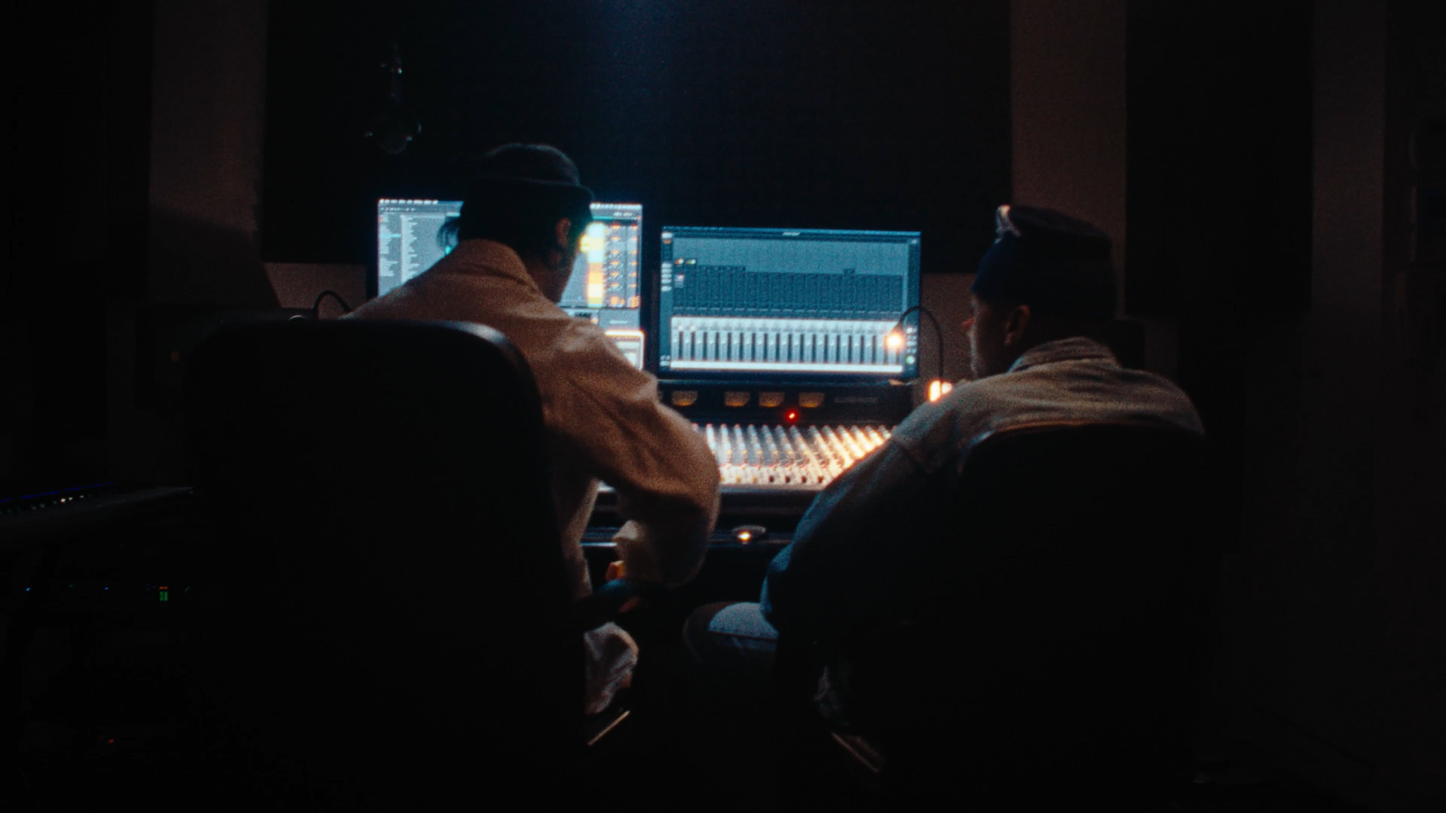
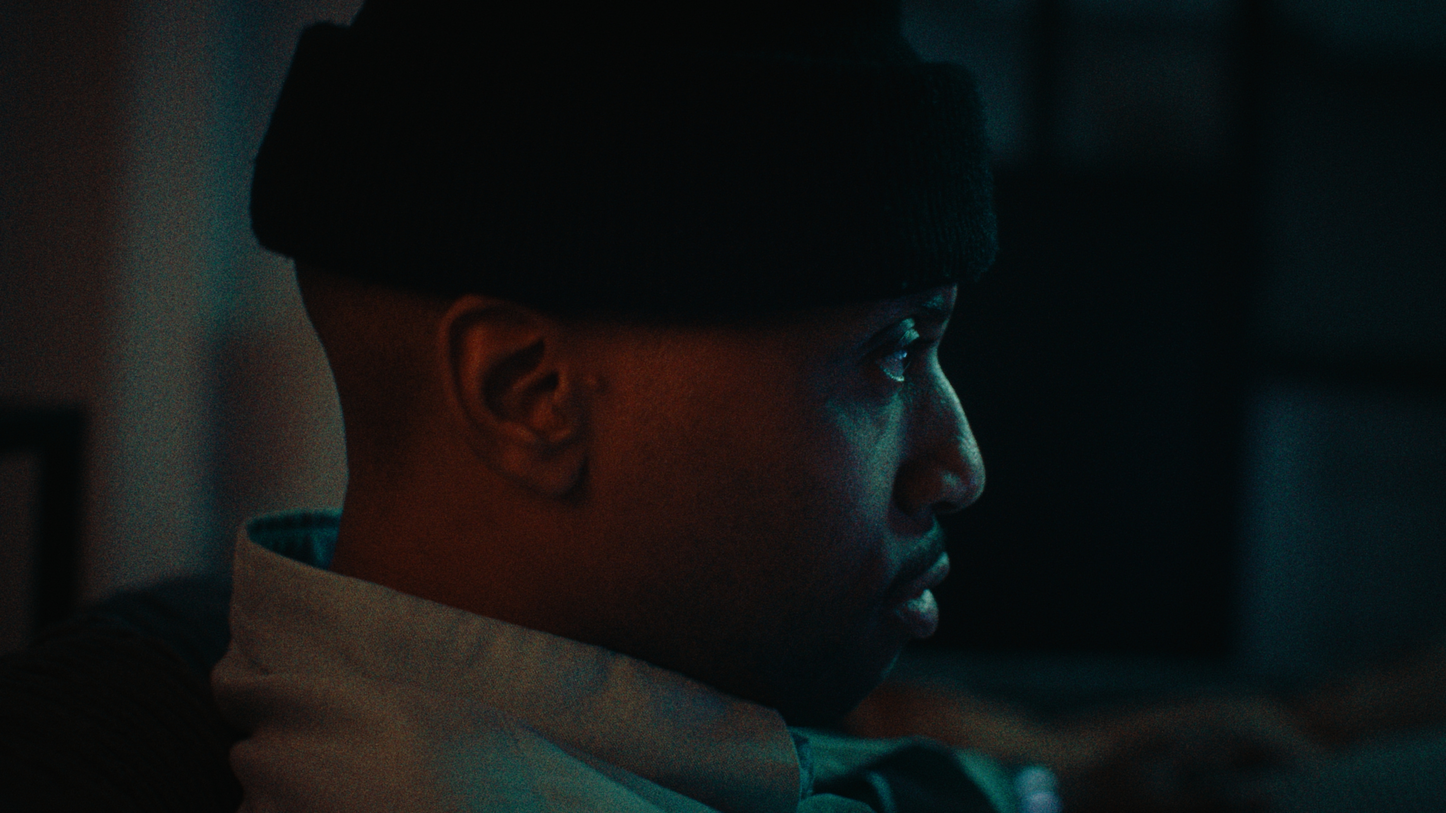
Deleted "Conversations" Project  and replaced thumbnails

diff --git a/src/content/projects.ts b/src/content/projects.ts
@@ -141,18 +141,6 @@ export const projects: Project[] = [
     featured: true,
   },
   {
-    slug: "conversations",
-    title: "Conversations",
-    director: "Marion Renerre",
-    production: "Hurrah.studio",
-    cover: "/images/conversations.jpg",
-    glow: "#69413a",
-    category: "documentary",
-    subcategory: "music",
-    video: { provider: "vimeo", id: "1119377528", hash: "d839c3575e" },
-    featured: true,
-  },
-  {
     slug: "le-rayon-vert",
     title: "Le Rayon vert",
     director: "Marion Renerre",
@@ -210,7 +198,7 @@ export const projects: Project[] = [
     video: { provider: "vimeo", id: "1227023981", hash: "be3440d09d" },
     category: "ads",
     subcategory: "food",
-    featured: true,
+    featured: false,
   },
 ];
 
@@ -221,7 +209,7 @@ export const projects: Project[] = [
  * - `{ category: "ads", subcategory: "fashion" }` — narrowed further
  * - `{ subcategory: "fashion" }` — that subcategory, whatever the category
  */
-export const homeShowreel: ShowreelFilter = { category: "ads" };
+export const homeShowreel: ShowreelFilter = { };
 
 /** A project that is guaranteed to have a video, for the fullscreen showreel. */
 export type ShowreelProject = Project & { video: VideoSource };
